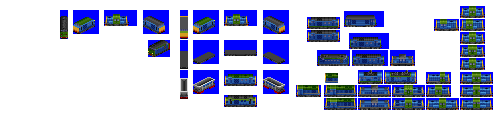
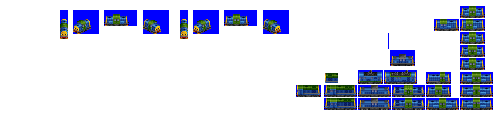
Change: sprites complete for Faun

diff --git a/src/vehicles/faun.py b/src/vehicles/faun.py
@@ -8,7 +8,8 @@ consist = EngineConsist(id='faun',
                         random_reverse=True,
                         joker=True,
                         gen=5,
-                        intro_date_offset=-5)
+                        intro_date_offset=-5,
+                        sprites_complete=True)
 
 consist.add_unit(type=DieselEngineUnit,
                  weight=70,
